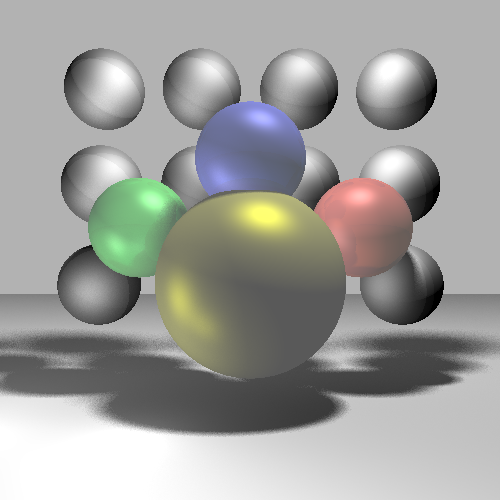
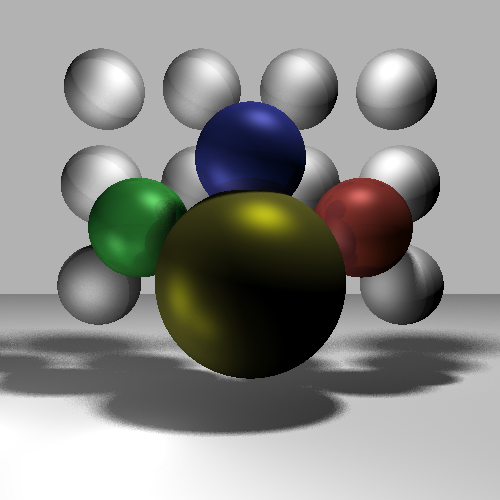
fix transparency

Changed region(s): [[0.18, 0.18, 0.84, 0.78]]

diff --git a/src/Scene.java b/src/Scene.java
@@ -69,14 +69,14 @@ public class Scene {
         }
         Vector reflectionColor = new Vector(0,0,0);
         if (mat.reflection.x > 0 || mat.reflection.y > 0 || mat.reflection.z > 0) {
-            reflectionColor = ReflectionColor(ray, N, intersection, mat, recDepth);
+            reflectionColor = ReflectionColor(ray, N, intersection, mat, recDepth-1);
         }
-        List<Intersection> check =new ArrayList<Intersection>();
-        check= Intersection.getAllIntersections(ray,surfaces);
+        //List<Intersection> check =new ArrayList<Intersection>();
+        //check= Intersection.getAllIntersections(ray,surfaces);
         Vector transfCol = new Vector(0,0,0);
 
         if (mat.transparency > 0) {
-            transfCol = TransparencyColors( ray, intersection, recDepth);
+            transfCol = TransparencyColors( ray, intersection, recDepth-1);
         }
         //output color = (background color) * transparency + (diffuse + specular) * (1 - transparency) + (reflection color)
         col=(transfCol.scalarMult(mat.transparency)).add((col.scalarMult(1 - mat.transparency))).add(reflectionColor);   /// formula
@@ -114,24 +114,48 @@ public class Scene {
     }
 
     public Vector TransparencyColors( Ray ray, Vector intersectionPoint, int recDepth) {
-        Vector col=new Vector(0,0,0);
-        double min_t;
-        Surface firstSurface;
+        Vector col = new Vector(0,0,0);
+        double t;
+        Surface surface;
         Ray transRay = new Ray(intersectionPoint.add(ray.v.scalarMult(epsilon)), ray.v);
-        Intersection intersection = Intersection.getMinIntersection(transRay, newSurfaces);
-        min_t = intersection.min_t;
-        firstSurface = intersection.firstSurface;
-        this.newSurfaces.remove(firstSurface);
-        if (min_t == Double.MAX_VALUE) {
-            col =this.settings.backgroundCol;
+        List<Intersection> inters_list = Intersection.getAllIntersections(transRay, surfaces);
 
-        } else {
-            col=col.add(getColor(firstSurface,min_t, transRay, recDepth - 1));
+//        Material mat = materials.get(i.firstSurface.getMatIndex() - 1);
+//        if (mat.transparency>0){
+
+            for (Intersection inter : inters_list ){
+            t = inter.min_t;
+            surface = inter.firstSurface;
+            if (t == Double.MAX_VALUE) {
+                col =this.settings.backgroundCol;
+            } else {
+                col = col.add(getColor(surface, t, transRay, recDepth - 1));
+            }
+            //this.newSurfaces.remove(surface);
         }
         col.checkBound();
         return col;
     }
 
+//    public Vector TransparencyColors( Ray ray, Vector intersectionPoint, int recDepth) {
+//        Vector col=new Vector(0,0,0);
+//        double min_t;
+//        Surface firstSurface;
+//        Ray transRay = new Ray(intersectionPoint.add(ray.v.scalarMult(epsilon)), ray.v);
+//        List<Intersection> intersection = Intersection.getAllIntersections(transRay, newSurfaces);
+//
+//        min_t = intersection.min_t;
+//        firstSurface = intersection.firstSurface;
+//        this.newSurfaces.remove(firstSurface);
+//        if (min_t == Double.MAX_VALUE) {
+//            col =this.settings.backgroundCol;
+//
+//        } else {
+//            col=col.add(getColor(firstSurface, min_t, transRay, recDepth - 1));
+//        }
+//        col.checkBound();
+//        return col;
+//    }
     public double softShadow(Light light, Vector planeNormal, Vector intersectionPoint) {
         Plane plane = new Plane(planeNormal,planeNormal.dotProduct(light.position),-1);
         Vector uOnPlane = plane.findVec(light.position); //Specifying the Viewing Coordinates system

diff --git a/src/Intersection.java b/src/Intersection.java
@@ -9,7 +9,6 @@ import java.util.List;
             this.min_t = min_t;
         }
 
-
         public static Intersection getMinIntersection(Ray ray, List<Surface> Surfaces) { /// return [min_t, firstSurface]
             double min_t = Double.MAX_VALUE; // min_t = infinity
             Surface firstSurface = null;
@@ -35,7 +34,7 @@ import java.util.List;
         }
 
         public static List<Intersection> getAllIntersections(Ray ray, List<Surface> Surfaces) { /// return [min_t, firstSurface]
-            //double min_t = Double.MAX_VALUE; // min_t = infinity
+            double min_t = Double.MAX_VALUE; // min_t = infinity
             List<Intersection> allIntersections = new ArrayList<>();
             Surface firstSurface = null;
             //Object[] intersection = new Object[2];
